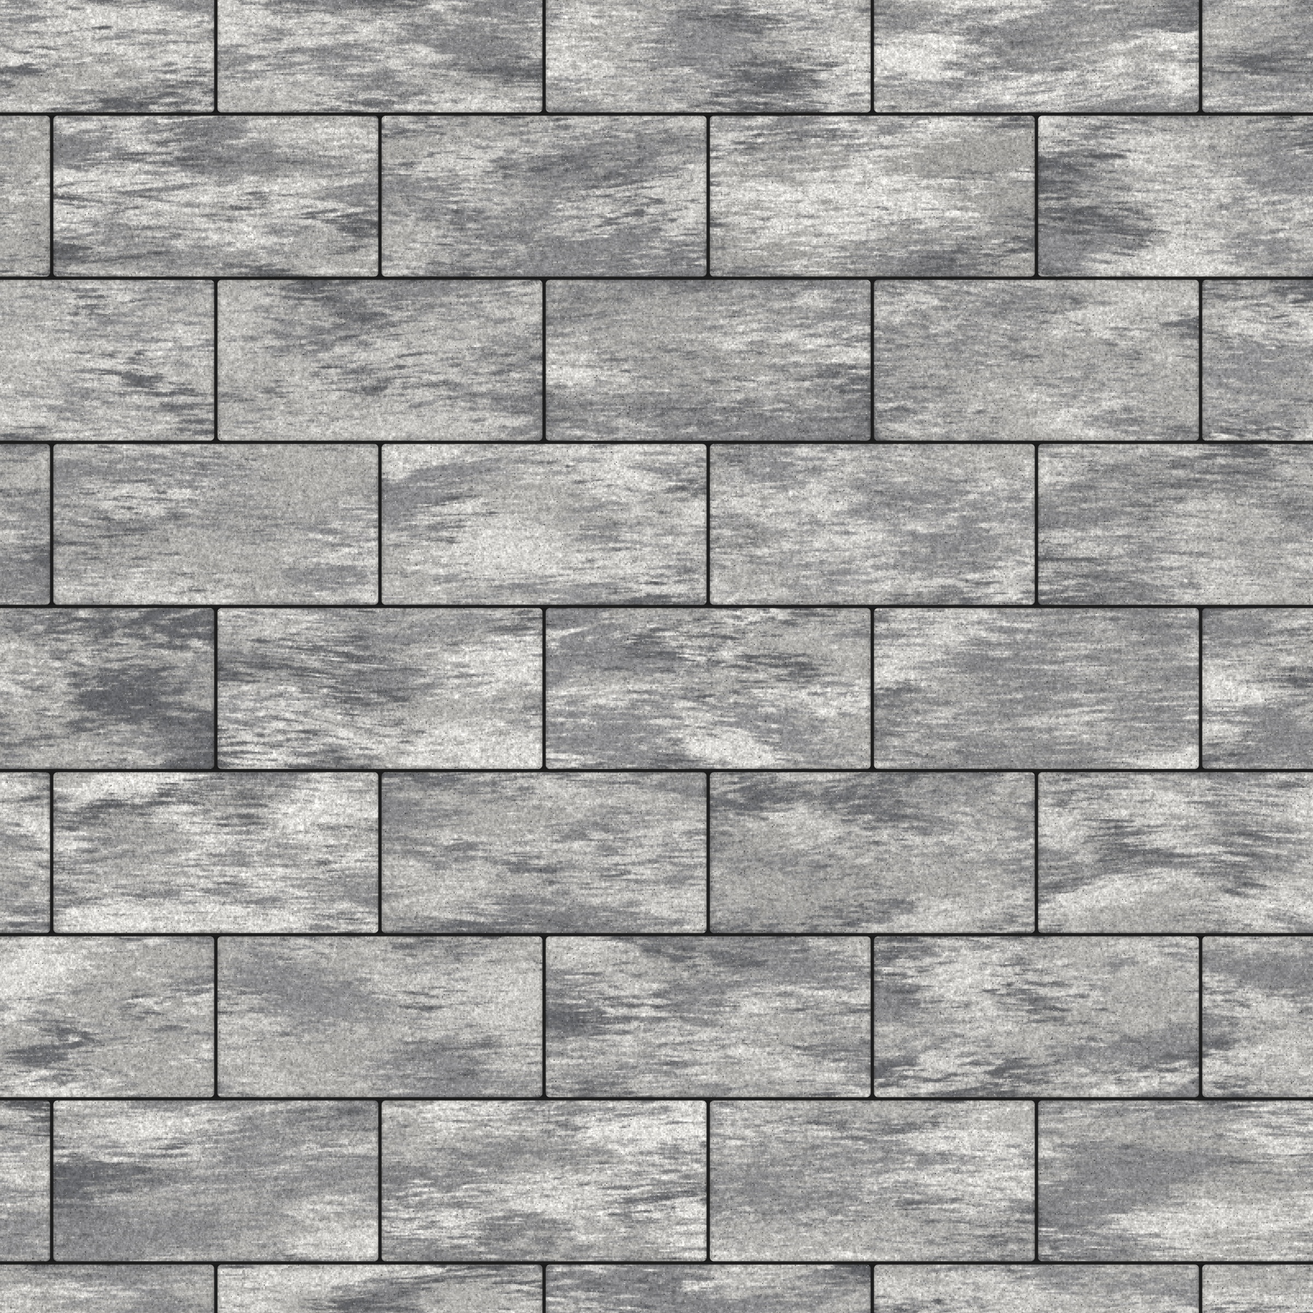
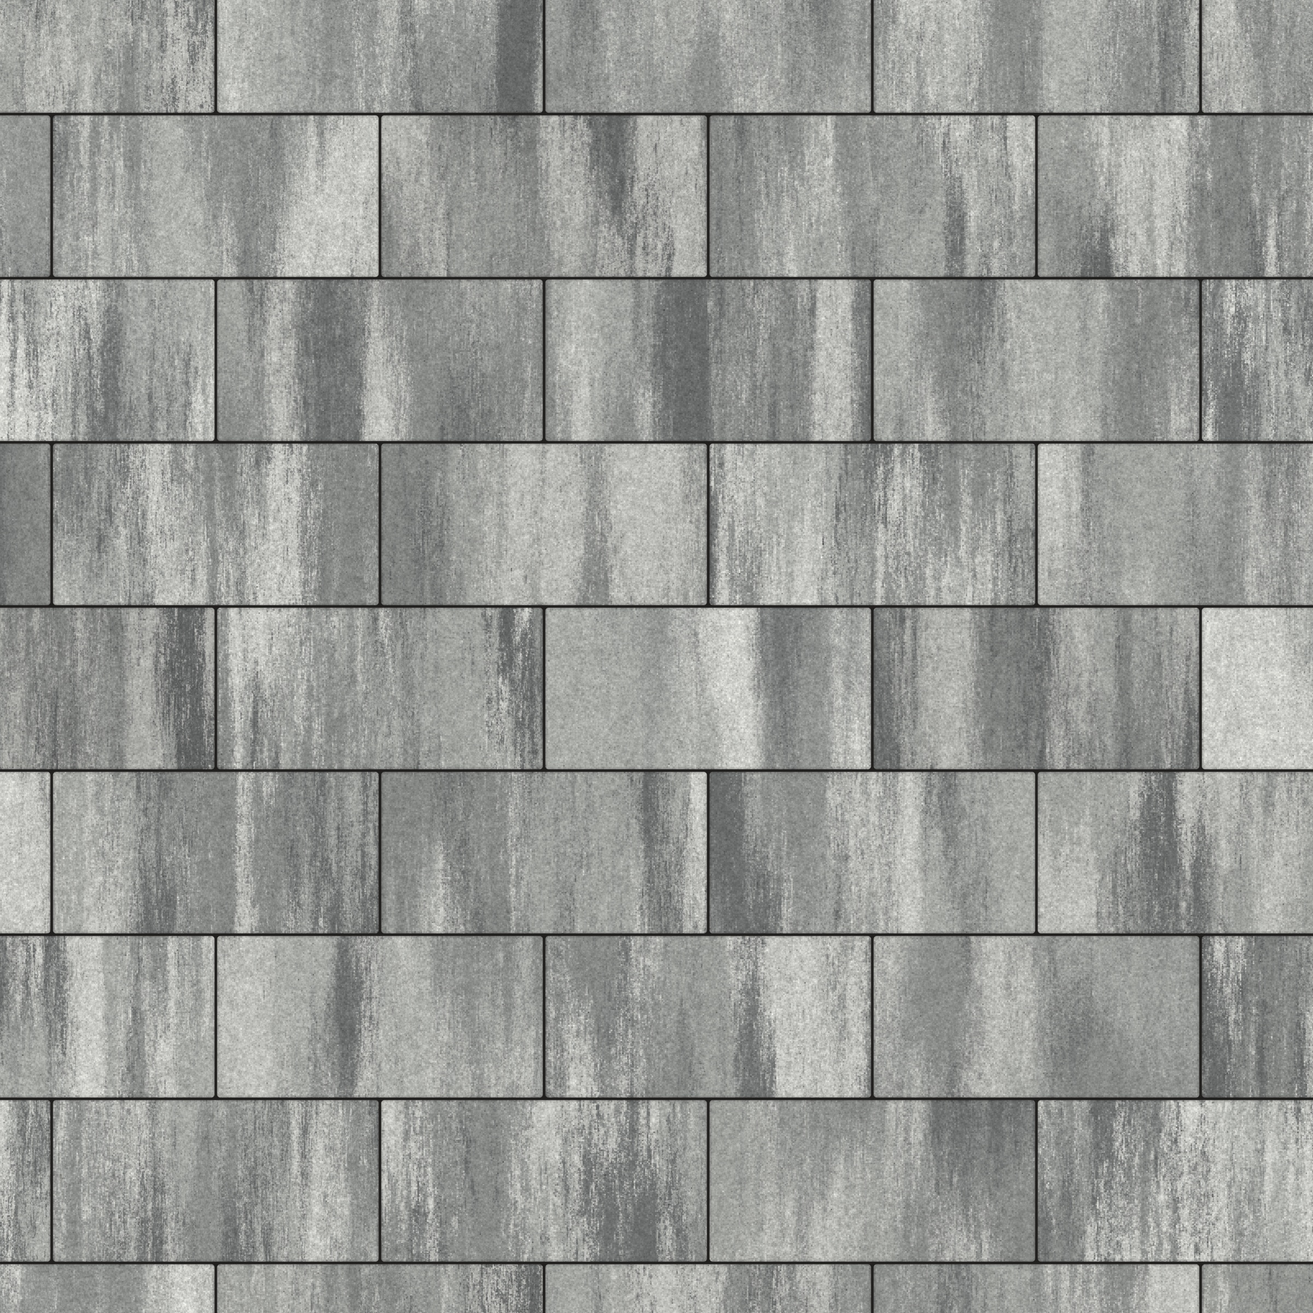
Colormix generator matched to real paver photos
Global feedbox streak direction, broad soft tone transitions, short broken
dry-brush streaks and a smooth fine-grained surface; palettes measured
from real colormix photos.

Claude-Session: https://claude.ai/code/session_01Cki9dFkDBvVBn4aeoXxEYi

diff --git a/plyta_400x200/tools/colormix_strokes.py b/plyta_400x200/tools/colormix_strokes.py
@@ -1,21 +1,17 @@
-"""Колормікс «мазком»: кожна плита — окремий процес формування, без копіювання.
+"""Колормікс, як на реальних фото (reference/real_*.jpg).
 
-Як роблять колормікс: лицьовий шар складають з 3–4 по-різному пігментованих
-сумішей, змішаних не до кінця (згустки); ящик-живильник одним ходом протягує
-суміш над формою — згустки витягуються в плавні смуги вздовж ходу, з
-розмазаними кінцями; від циклу до циклу суміш перемішується, тож пропорції
-кольорів і малюнок у кожного каменя свої.
+Що видно на справжніх каменях і як це відтворено:
+  * смуги в усіх каменів ідуть в ОДНОМУ напрямку — уздовж ходу живильника
+    (а не вздовж довгої сторони каменя): параметр --dir;
+  * камінь переважно одного-двох тонів; між тонами — широкий м'який перехід
+    поперек ходу (напр. половина бежева, половина сіра);
+  * поверх — тонкі переривчасті смуги інших пігментів, як від сухого пензля;
+  * контраст усередині каменю невеликий, основна різниця — між каменями;
+  * поверхня гладка: дрібне зерно, поодинокі пори й світлі піщинки.
+Кожен камінь генерується окремо зі свого зерна — двох однакових немає.
 
-Модель для кожної плити:
-  1. згустки пігментів — поля концентрацій (м'який softmax шумів різного
-     масштабу) з власними пропорціями плити;
-  2. мазок — поля розтягуються вздовж ходу живильника (анізотропія), траєкторія
-     злегка хвиляста, ширина й довжина мазка змінюються поперек плити,
-     передній край змазаний (спрямоване розмиття);
-  3. колір = суміш пігментів; зверху — дрібні волокна й зерна піску.
-Усі плити різні: кожна має власне зерно генератора.
-
-Запуск: python3 colormix_strokes.py [--palette peach|autumn|terracotta|grey|all] [--scheme 01_running_half] [--seed 1] [--seamless]
+Запуск: python3 colormix_strokes.py [--palette brown_grey|peach_grey|sand|rose|grey|all]
+        [--scheme 01_running_half] [--seed 1] [--dir v|h] [--seamless]
 """
 import argparse
 import hashlib
@@ -31,71 +27,64 @@ from schemes import SCHEMES, build
 
 ROOT = os.path.abspath(os.path.join(os.path.dirname(__file__), ".."))
 PX_PER_MM = 1.5
-JOINT_MM, CORNER_MM = 4.0, 5.0
+JOINT_MM, CORNER_MM = 3.0, 4.0
 
-# пігменти: (колір sRGB, середня частка в суміші)
+# пігменти (sRGB) і середня частка; виміряно на reference/real_*.jpg
 PALETTES = {
-    "grey":       [((214, 212, 208), 0.38), ((174, 173, 170), 0.30), ((136, 136, 138), 0.24), ((100, 101, 104), 0.08)],
-    # з ваших фото колорміксу
-    "peach":      [((222, 211, 199), 0.32), ((198, 170, 151), 0.34), ((143, 139, 139), 0.25), ((104, 100, 102), 0.09)],
-    "autumn":     [((218, 202, 176), 0.32), ((188, 150, 110), 0.34), ((132, 116, 100), 0.25), ((88, 80, 74), 0.09)],
-    "terracotta": [((216, 202, 188), 0.30), ((178, 116, 90), 0.36), ((138, 130, 128), 0.25), ((90, 84, 84), 0.09)],
+    "brown_grey": [((186, 176, 166), 0.18), ((172, 146, 124), 0.32), ((130, 124, 120), 0.32), ((90, 85, 82), 0.18)],
+    "peach_grey": [((188, 180, 176), 0.26), ((174, 154, 144), 0.32), ((140, 140, 145), 0.30), ((108, 106, 110), 0.12)],
+    "sand":       [((198, 192, 186), 0.28), ((180, 160, 146), 0.34), ((142, 142, 147), 0.28), ((106, 103, 106), 0.10)],
+    "rose":       [((188, 182, 177), 0.34), ((168, 140, 132), 0.36), ((158, 155, 152), 0.24), ((132, 122, 119), 0.06)],
+    "grey":       [((198, 199, 194), 0.30), ((166, 168, 164), 0.32), ((136, 138, 136), 0.26), ((104, 106, 106), 0.12)],
 }
 
 
-def aniso(shape, sx, sy, rng):
-    """Анізотропний гаусів шум, std = 1 (sx — уздовж ходу живильника)."""
-    n = gaussian_filter(rng.standard_normal(shape).astype(np.float32), (sy, sx), mode="reflect")
+def aniso(shape, s_across, s_along, rng):
+    """Анізотропний шум (std = 1); вісь 0 — уздовж ходу живильника."""
+    n = gaussian_filter(rng.standard_normal(shape).astype(np.float32), (s_along, s_across), mode="reflect")
     return (n - n.mean()) / (n.std() + 1e-9)
 
 
-def plate_field(h, w, palette, rng):
-    """Колір однієї плити (h x w px), хід живильника — уздовж осі X."""
+def stone_field(h, w, palette, rng):
+    """Колір каменя h x w px; хід живильника — уздовж осі 0 (вниз)."""
     K = len(palette)
-    pad = 24
+    pad = 20
     H, W = h + 2 * pad, w + 2 * pad
-    # 2. мазок: хвиляста траєкторія та змінний зсув рядків
-    yy, xx = np.mgrid[0:H, 0:W].astype(np.float32)
-    wave = aniso((H, W), 160, 120, rng) * rng.uniform(3, 9)              # плавний вигин мазка
-    shear = aniso((H, 1), 1, rng.uniform(10, 30), rng)[:, :1] * rng.uniform(10, 40)
-    mx = xx + shear
-    my = yy + wave
-    # 1. згустки пігментів із власними пропорціями плити (дрейф суміші)
-    props = np.array([p for _, p in palette]) * rng.lognormal(0, 0.5, K)
-    props /= props.sum()
-    beta = rng.uniform(1.7, 2.5)                                        # наскільки суміш «неперемішана»
-    sx_streak = rng.uniform(9, 18)                                      # довжина смуг мазка, px
+    base_p = np.array([p for _, p in palette])
+    # склад суміші цього каменя: 1–2 домінантні пігменти (дрейф суміші між циклами)
+    p = base_p * rng.lognormal(0, 0.7, K)
+    p /= p.sum()
+    streaky = rng.beta(2.0, 2.2)                       # 0 — майже однотонний, 1 — дуже смугастий
+    across = np.linspace(-1, 1, W, dtype=np.float32)[None, :]
     logits = []
     for k in range(K):
-        zone = aniso((H, W), rng.uniform(45, 85), rng.uniform(16, 30), rng)        # великі «хмари» одного кольору
-        streak = aniso((H, W), sx_streak * rng.uniform(0.8, 1.25), rng.uniform(1.5, 3.0), rng)  # смуги мазка
-        micro = aniso((H, W), rng.uniform(5, 9), rng.uniform(0.6, 1.0), rng)       # дрібні волокна
-        n = 0.85 * zone + 0.55 * streak + 0.30 * micro
-        n = cv2.remap(n, mx, my, cv2.INTER_LINEAR, borderMode=cv2.BORDER_REFLECT)
-        logits.append(beta * n + math.log(props[k]))
+        big = aniso((H, W), rng.uniform(25, 55), rng.uniform(100, 220), rng)     # широкі тонові зони
+        ramp = across * rng.normal(0, 0.9)                                       # плавний перехід поперек ходу
+        mid = aniso((H, W), rng.uniform(4, 9), rng.uniform(45, 110), rng)        # середні смуги
+        fine = aniso((H, W), rng.uniform(0.8, 1.4), rng.uniform(6, 16), rng)     # короткі штрихи «сухий пензель»
+        gate = 1 / (1 + np.exp(-2.5 * aniso((H, W), rng.uniform(2, 5), rng.uniform(3, 7), rng)))
+        grain = gaussian_filter(rng.standard_normal((H, W)).astype(np.float32), 0.8); grain /= grain.std() + 1e-9
+        n = 1.1 * big + ramp + (0.25 + streaky) * (0.75 * mid + 0.95 * fine * gate) + (0.25 + 0.4 * streaky) * grain
+        logits.append(1.6 * n + math.log(p[k]))
     lg = np.stack(logits)
-    c = np.exp(lg - lg.max(0)); c /= c.sum(0)                          # плавний склад суміші
-    # зерна: кожна піщинка вибирає пігмент випадково з імовірністю c (Gumbel-вибір, м'який)
-    G = -np.log(-np.log(np.clip(rng.random((K, H, W)), 1e-6, 1 - 1e-6))).astype(np.float32)
-    G = np.stack([cv2.GaussianBlur(g, (0, 0), 0.75) for g in G]) * 1.9
-    q = (np.log(c + 1e-6) + G) / 0.6
-    pg = np.exp(q - q.max(0)); pg /= pg.sum(0)
-    f = 0.45 * pg + 0.55 * c
-    cols = np.array([c for c, _ in palette], np.float32) * rng.normal(1, 0.025, (K, 1))
+    f = np.exp(lg - lg.max(0)); f /= f.sum(0)
+    cols = np.array([c for c, _ in palette], np.float32) * rng.normal(1, 0.02, (K, 1))
     rgb = np.tensordot(f.transpose(1, 2, 0), cols, axes=([2], [0]))
-    rgb = cv2.GaussianBlur(rgb, (0, 0), 0.55)
-    # 3. шорсткість поверхні: зерна піску, пори, світлі піщинки кварцу (поверх кольору)
-    g1 = gaussian_filter(rng.standard_normal((H, W)).astype(np.float32), 0.95); g1 /= g1.std() + 1e-9
-    g2 = gaussian_filter(rng.standard_normal((H, W)).astype(np.float32), 2.2); g2 /= g2.std() + 1e-9
-    rgb *= (1 + 0.065 * g1 + 0.04 * g2)[..., None]
-    sp = gaussian_filter(rng.random((H, W)).astype(np.float32), 0.5)
-    hi_q, lo_q = np.quantile(sp, 0.992), np.quantile(sp, 0.006)
-    rgb[sp > hi_q] = rgb[sp > hi_q] * 0.45 + 125          # світлі піщинки кварцу
-    rgb[sp < lo_q] = rgb[sp < lo_q] * 0.62                # пори
+    rgb *= rng.normal(1, 0.035)                        # загальний тон каменя
+    # поверхня: дрібне зерно, легка плямистість, пори, світлі піщинки
+    g = gaussian_filter(rng.standard_normal((H, W)).astype(np.float32), 0.8); g /= g.std() + 1e-9
+    g2 = gaussian_filter(rng.standard_normal((H, W)).astype(np.float32), 1.8); g2 /= g2.std() + 1e-9
+    mott = aniso((H, W), 6, 8, rng)
+    rgb *= (1 + 0.045 * g + 0.03 * g2 + 0.015 * mott)[..., None]
+    r = rng.random((H, W))
+    pores = gaussian_filter((r < 0.0006).astype(np.float32), 0.6) * 4
+    specks = gaussian_filter((r > 0.99965).astype(np.float32), 0.55) * 4
+    rgb *= (1 - 0.3 * np.clip(pores, 0, 1))[..., None]
+    rgb += (40 * np.clip(specks, 0, 1))[..., None]
     return rgb[pad:pad + h, pad:pad + w]
 
 
-def render(scheme_id, palette_name, seed=1, seamless=False, size_mm=1600):
+def render(scheme_id, palette_name, seed=1, seamless=False, size_mm=1600, direction="v"):
     scheme = next(s for s in SCHEMES if s["id"] == scheme_id)
     px, py, plates = build(scheme)
     if seamless:
@@ -106,48 +95,44 @@ def render(scheme_id, palette_name, seed=1, seamless=False, size_mm=1600):
         n, m = math.ceil(ex / px), math.ceil(ey / py)
     W, H = round(ex * PX_PER_MM), round(ey * PX_PER_MM)
     pal = PALETTES[palette_name]
-    img = np.zeros((H, W, 3), np.float32) + np.array([30, 29, 29], np.float32)
+    img = np.zeros((H, W, 3), np.float32) + np.array([34, 32, 31], np.float32)
     j2, cr = JOINT_MM / 2, CORNER_MM
+    ox, oy = (0, 0) if seamless else (-137.0, -61.0)
     cache = {}
-    ox, oy = (0, 0) if seamless else (-137.0, -61.0)     # без тайлу — розкладка з довільного місця
     for i in range(-1, n + 2):
         for j in range(-1, m + 2):
             for cx0, cy0, w, h, ang, _ in plates:
                 cx, cy = cx0 + i * px + ox, cy0 + j * py + oy
                 if not (-300 < cx < ex + 300 and -300 < cy < ey + 300):
                     continue
-                key = (round(cx % ex, 1) % round(ex, 1), round(cy % ey, 1) % round(ey, 1)) if seamless else (round(cx, 1), round(cy, 1))
-                if key not in cache:
-                    r = np.random.default_rng(int(hashlib.md5(f"{seed}:{palette_name}:{key}".encode()).hexdigest()[:12], 16))
-                    Lmm, Smm = max(w, h), min(w, h)
-                    rgb = plate_field(int(Smm * PX_PER_MM) + 8, int(Lmm * PX_PER_MM) + 8, pal, r)
-                    if r.random() < 0.5:
-                        rgb = rgb[::-1, ::-1]
-                    cache[key] = rgb
-                rgb = cache[key]
                 a = math.radians(ang); ca, sa = math.cos(a), math.sin(a)
                 hw = abs(w / 2 * ca) + abs(h / 2 * sa); hh = abs(w / 2 * sa) + abs(h / 2 * ca)
+                key = ((round(cx % ex, 1) % round(ex, 1), round(cy % ey, 1) % round(ey, 1)) if seamless
+                       else (round(cx, 1), round(cy, 1)))
+                fh, fw = int(2 * hh * PX_PER_MM) + 8, int(2 * hw * PX_PER_MM) + 8
+                if key not in cache:
+                    r = np.random.default_rng(int(hashlib.md5(f"{seed}:{palette_name}:{key}".encode()).hexdigest()[:12], 16))
+                    if direction == "v":
+                        cache[key] = stone_field(fh, fw, pal, r)
+                    else:
+                        cache[key] = np.ascontiguousarray(stone_field(fw, fh, pal, r).transpose(1, 0, 2))
+                rgb = cache[key]
                 x0, x1 = max(0, int((cx - hw) * W / ex)), min(W, int((cx + hw) * W / ex) + 1)
                 y0, y1 = max(0, int((cy - hh) * H / ey)), min(H, int((cy + hh) * H / ey) + 1)
                 if x0 >= x1 or y0 >= y1:
                     continue
                 X, Y = np.meshgrid((np.arange(x0, x1) + 0.5) * ex / W - cx, (np.arange(y0, y1) + 0.5) * ey / H - cy)
                 u, v = X * ca + Y * sa, -X * sa + Y * ca
-                if w < h:
-                    u, v = v, -u
-                    Lw, Sw = h, w
-                else:
-                    Lw, Sw = w, h
-                qx, qy = np.abs(u) - (Lw / 2 - j2 - cr), np.abs(v) - (Sw / 2 - j2 - cr)
+                qx, qy = np.abs(u) - (w / 2 - j2 - cr), np.abs(v) - (h / 2 - j2 - cr)
                 d = np.hypot(np.maximum(qx, 0), np.maximum(qy, 0)) + np.minimum(np.maximum(qx, qy), 0) - cr
                 cov = np.clip(-d * PX_PER_MM + 0.5, 0, 1)
                 if not cov.any():
                     continue
-                sx_ = np.clip(((u + Lw / 2) * PX_PER_MM + 4).astype(int), 0, rgb.shape[1] - 1)
-                sy_ = np.clip(((v + Sw / 2) * PX_PER_MM + 4).astype(int), 0, rgb.shape[0] - 1)
+                sx_ = np.clip(((X + hw) * PX_PER_MM + 4).astype(int), 0, rgb.shape[1] - 1)
+                sy_ = np.clip(((Y + hh) * PX_PER_MM + 4).astype(int), 0, rgb.shape[0] - 1)
                 col = rgb[sy_, sx_]
-                rim = np.clip(-d / 5.0, 0, 1)
-                col = col * (0.80 + 0.20 * rim ** 0.6)[..., None]
+                rim = np.clip(-d / 3.5, 0, 1)                    # фаска: вузький темніший край
+                col = col * (0.72 + 0.28 * rim ** 0.5)[..., None]
                 sl = (slice(y0, y1), slice(x0, x1))
                 img[sl] = img[sl] * (1 - cov[..., None]) + col * cov[..., None]
     return np.clip(img, 0, 255).astype(np.uint8), (ex, ey)
@@ -155,14 +140,15 @@ def render(scheme_id, palette_name, seed=1, seamless=False, size_mm=1600):
 
 def main():
     ap = argparse.ArgumentParser()
-    ap.add_argument("--palette", default="peach")
+    ap.add_argument("--palette", default="brown_grey")
     ap.add_argument("--scheme", default="01_running_half")
     ap.add_argument("--seed", type=int, default=1)
-    ap.add_argument("--seamless", action="store_true", help="безшовний тайл для текстур (крайні плити повторюються з іншого боку)")
+    ap.add_argument("--dir", default="v", choices=["v", "h"], help="напрям ходу живильника (смуг)")
+    ap.add_argument("--seamless", action="store_true", help="безшовний тайл для текстур")
     a = ap.parse_args()
     names = [p for p in PALETTES if p != "grey"] if a.palette == "all" else [a.palette]
     for pn in names:
-        img, (ex, ey) = render(a.scheme, pn, a.seed, a.seamless)
+        img, (ex, ey) = render(a.scheme, pn, a.seed, a.seamless, direction=a.dir)
         tag = "tile" if a.seamless else "unique"
         out = os.path.join(ROOT, "colormix", f"colormix_{pn}_{a.scheme}_{int(ex)}x{int(ey)}mm_{tag}.jpg")
         Image.fromarray(img).save(out, quality=95)

diff --git a/plyta_400x200/README.md b/plyta_400x200/README.md
@@ -125,17 +125,20 @@ blender -b -P plyta_400x200/tools/build_mall_scene.py -- --samples 128 --res 192
 
 Щоб показати іншу схему: `python3 plyta_400x200/tools/build_textures.py --only 04_herringbone90 --res 4000 --extent 4800 --suffix _XL`, потім `--scheme 04_herringbone90`.
 
-## Генератор колорміксу «мазком»
+## Генератор колорміксу
 
-`tools/colormix_strokes.py` моделює виготовлення колорміксу: 3–4 пігментовані суміші, змішані не до кінця → живильник протягує суміш одним мазком (смуги вздовж ходу, змазані кінці, хвиляста траєкторія) → кожна піщинка набуває кольору одного з пігментів. Пропорції й малюнок у кожної плити свої, тож дві однакові плити не трапляються.
+`tools/colormix_strokes.py` відтворює реальний колормікс (взірці — `reference/real_*.jpg`):
+смуги в усіх каменів в одному напрямку (хід живильника, `--dir v|h`), камінь переважно
+1–2 тонів із широким м'яким переходом, поверх — тонкі переривчасті штрихи, гладка
+поверхня з дрібним зерном і рідкими порами. Кожен камінь генерується окремо — однакових немає.
 
 ```bash
-python3 plyta_400x200/tools/colormix_strokes.py --palette all                 # картинки без повторів (colormix/*_unique.jpg)
-python3 plyta_400x200/tools/colormix_strokes.py --palette peach --seamless    # безшовний тайл для текстур
-python3 plyta_400x200/tools/colormix_strokes.py --palette peach --seed 7      # інша партія плит
+python3 plyta_400x200/tools/colormix_strokes.py --palette all                     # картинки без повторів
+python3 plyta_400x200/tools/colormix_strokes.py --palette brown_grey --seamless   # безшовний тайл для текстур
+python3 plyta_400x200/tools/colormix_strokes.py --palette sand --seed 7           # інша партія
 ```
 
-Палітри (`PALETTES`): `peach` (з ваших фото), `autumn`, `terracotta`, `grey` (для звірки з взірцем `reference/colormix_exemplar_grey.webp`).
+Палітри (`PALETTES`, кольори виміряні на реальних фото): `brown_grey`, `peach_grey`, `sand`, `rose`, `grey`.
 
 ## Як перенесено колормікс з фото
 
